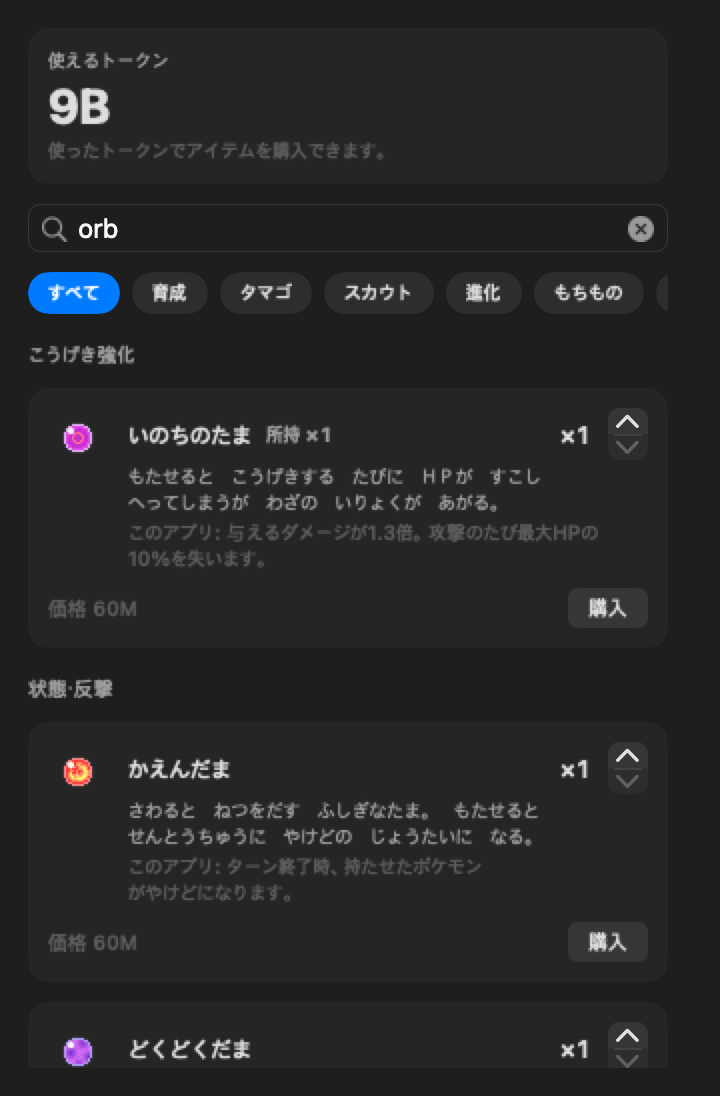
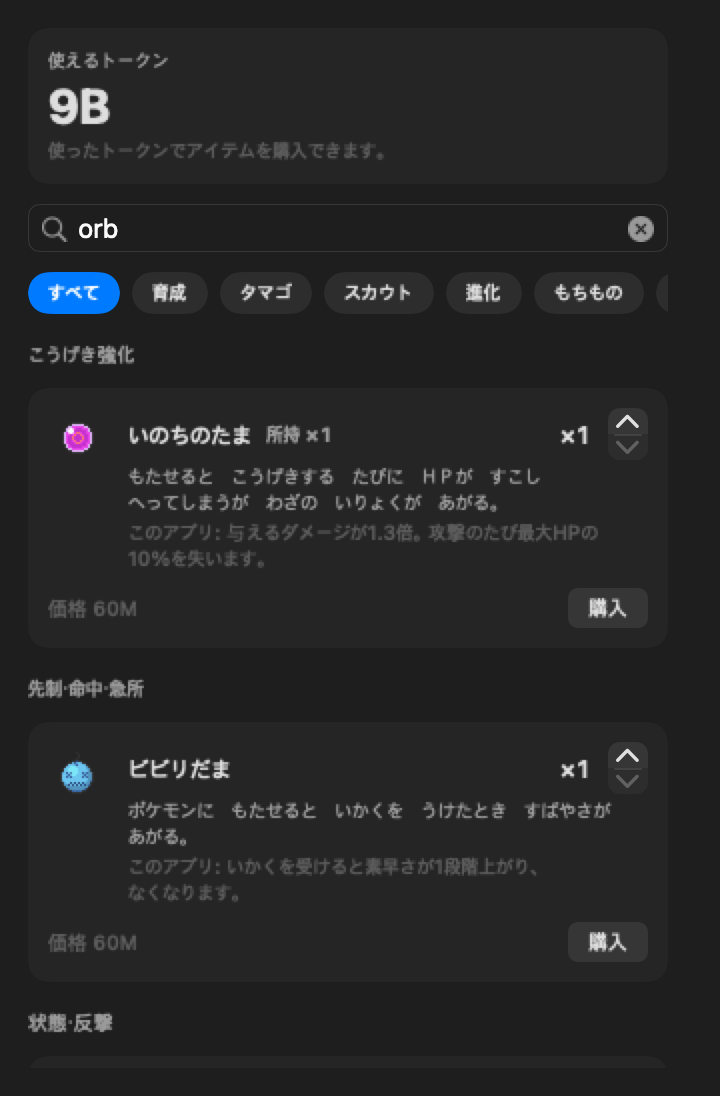
docs(readme): the shop sells every battle held item

diff --git a/README.ja.md b/README.ja.md
@@ -140,7 +140,7 @@ PokeTokenBar は、あなたがすでに使っている AI コーディングト
 <tr>
 <td width="55%" valign="middle">
 <h3>⚔ 効果ごとに分かれたバトル用の道具</h3>
-ショップとバッグの<b>もちもの</b>タブでは、バトル用の道具をこうげき強化・タイプ強化・耐久と回復・すばやさ・命中・急所・状態異常と反撃・天気・専用の道具の見出しに分けて並べます。ショップでは2段目のチップでグループを1つだけ選んで表示できます。
+ショップとバッグの<b>もちもの</b>タブでは、バトル用の道具をこうげき強化・タイプ強化・耐久と回復・すばやさ・命中・急所・状態異常と反撃・天気・専用の道具の見出しに分けて並べます。ショップでは2段目のチップでグループを1つだけ選んで表示できます。ショップはバトルで効果のあるもちものをすべて売っています。タイプのジュエルやピンチきのみから、メモリ、カセット、パワー系の道具まであります。ジュエルは1回で使い切るので20M、パワー系の道具やくろいてっきゅうのように持たせたポケモンの足を引っぱる道具は5Mです。
 </td>
 <td width="45%" align="center"><img src="assets/screenshot-held-items-ja.png" width="300" alt="こうげき強化・タイプ強化の見出しの下に並ぶショップとバッグのもちもの"></td>
 </tr>

diff --git a/README.md b/README.md
@@ -139,7 +139,7 @@ The tokens you've already used are your currency. Buy several consumables at onc
 <tr>
 <td width="55%" valign="middle">
 <h3>⚔ Battle items, grouped by what they do</h3>
-The <b>Held items</b> tab in the Shop and the Bag sorts battle items under short headers: attack boost, type boost, bulk &amp; healing, speed, aim &amp; crits, status &amp; counters, weather and signature items. In the Shop, a second chip row shows one group at a time.
+The <b>Held items</b> tab in the Shop and the Bag sorts battle items under short headers: attack boost, type boost, bulk &amp; healing, speed, aim &amp; crits, status &amp; counters, weather and signature items. In the Shop, a second chip row shows one group at a time. The Shop sells every held item that does something in battle, from type gems and pinch berries to memories, drives and the power items. Gems cost 20M because they are used up; items that hold their holder back, like the power items and the Iron Ball, cost 5M.
 </td>
 <td width="45%" align="center"><img src="assets/screenshot-held-items.png" width="300" alt="Held items in the Shop and the Bag, under Attack boost and Type boost headers"></td>
 </tr>
